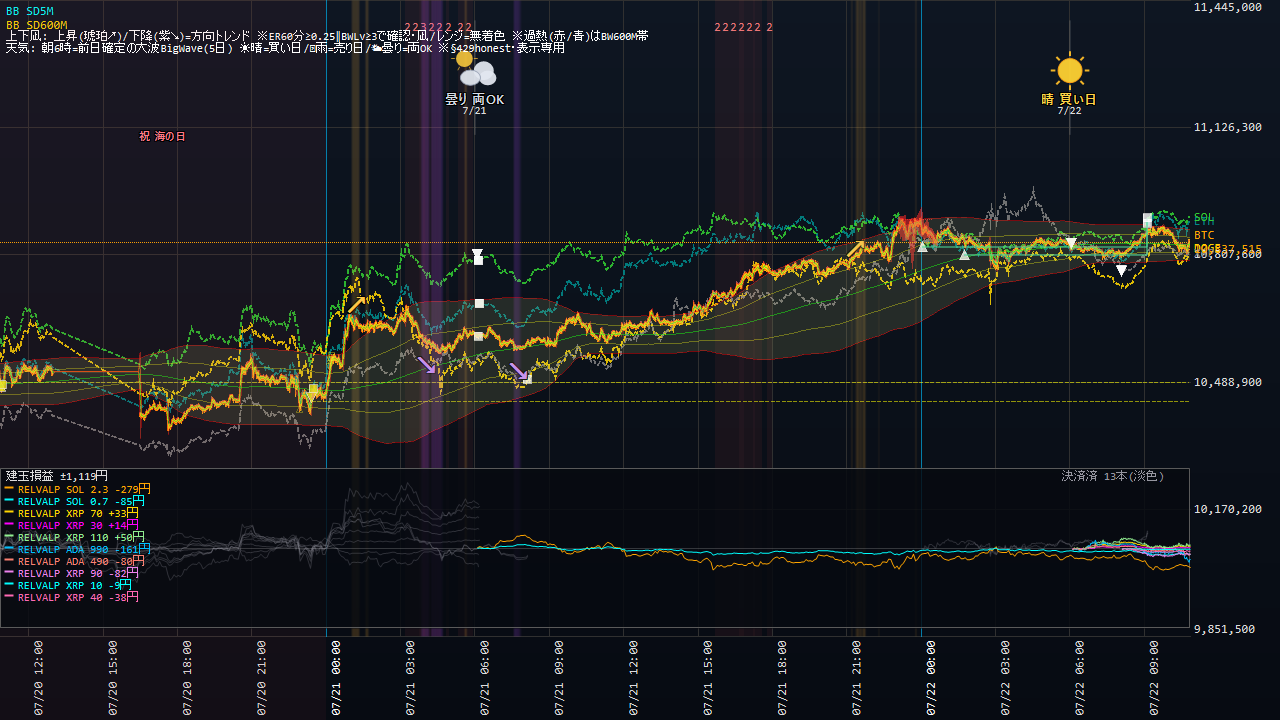
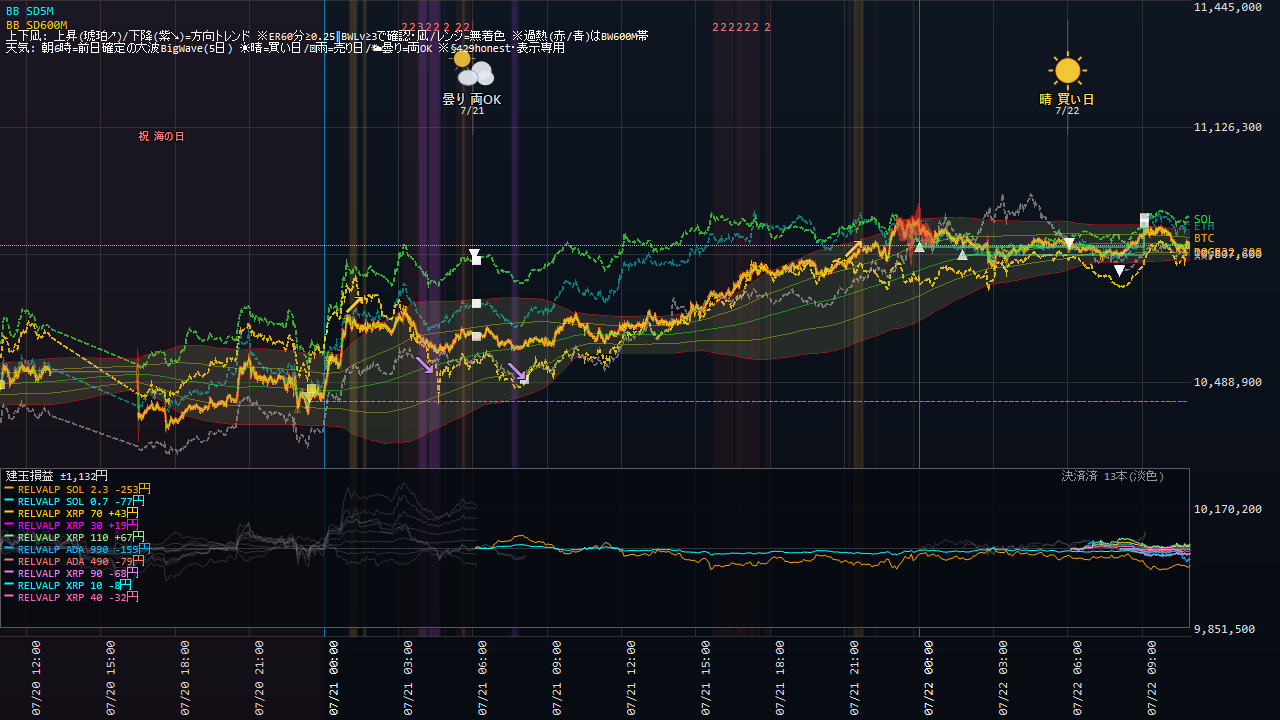
Coin100S 運用状況更新 07-22 10:59

diff --git a/coin100s-795hc4jfv8/index.html b/coin100s-795hc4jfv8/index.html
@@ -14,16 +14,16 @@ a{color:#60a5fa;text-decoration:none} a:hover{text-decoration:underline}
 .meta{color:#94a3b8;font-size:13px}</style>
 <script>setTimeout(function(){location.replace(location.pathname+"?t="+Date.now());},300000);</script></head><body>
 <h1>Coin100S ダッシュボード</h1>
-<p class="meta">スナップショット: 2026-07-22 10:53:03(自動リロード・最新化)</p>
+<p class="meta">スナップショット: 2026-07-22 10:59:02(自動リロード・最新化)</p>
 <div class="cards">
 <div class="card">建玉数<div class="v">10</div></div>
 <div class="card">本日損益<div class="v pos">+463円</div></div>
-<div class="card">評価損益<div class="v neg">-582円</div></div>
+<div class="card">評価損益<div class="v neg">-544円</div></div>
 </div>
 <h2>現在の建玉</h2>
-<table><tr><th>銘柄</th><th>側</th><th>数量</th><th>建値</th><th>含損益</th><th>レッグ</th></tr><tr><td>ADA_JPY</td><td>SELL</td><td>490</td><td>@28</td><td>-85円</td><td>RELVALP_SL700</td></tr><tr><td>ADA_JPY</td><td>SELL</td><td>990</td><td>@28</td><td>-171円</td><td>RELVALP_SELL</td></tr><tr><td>SOL_JPY</td><td>SELL</td><td>0.7</td><td>@12,663</td><td>-74円</td><td>RELVALP_SL700</td></tr><tr><td>SOL_JPY</td><td>SELL</td><td>2.3</td><td>@12,663</td><td>-242円</td><td>RELVALP_SELL</td></tr><tr><td>XRP_JPY</td><td>SELL</td><td>40</td><td>@186</td><td>-35円</td><td>RELVALP_SL700</td></tr><tr><td>XRP_JPY</td><td>SELL</td><td>10</td><td>@186</td><td>-9円</td><td>RELVALP_SELL</td></tr><tr><td>XRP_JPY</td><td>SELL</td><td>90</td><td>@186</td><td>-76円</td><td>RELVALP_SELL</td></tr><tr><td>XRP_JPY</td><td>SELL</td><td>110</td><td>@187</td><td>+57円</td><td>RELVALP_SELL</td></tr><tr><td>XRP_JPY</td><td>SELL</td><td>30</td><td>@187</td><td>+16円</td><td>RELVALP_SELL</td></tr><tr><td>XRP_JPY</td><td>SELL</td><td>70</td><td>@187</td><td>+37円</td><td>RELVALP_SL700</td></tr></table>
+<table><tr><th>銘柄</th><th>側</th><th>数量</th><th>建値</th><th>含損益</th><th>レッグ</th></tr><tr><td>ADA_JPY</td><td>SELL</td><td>490</td><td>@28</td><td>-80円</td><td>RELVALP_SL700</td></tr><tr><td>ADA_JPY</td><td>SELL</td><td>990</td><td>@28</td><td>-161円</td><td>RELVALP_SELL</td></tr><tr><td>SOL_JPY</td><td>SELL</td><td>0.7</td><td>@12,663</td><td>-74円</td><td>RELVALP_SL700</td></tr><tr><td>SOL_JPY</td><td>SELL</td><td>2.3</td><td>@12,663</td><td>-242円</td><td>RELVALP_SELL</td></tr><tr><td>XRP_JPY</td><td>SELL</td><td>40</td><td>@186</td><td>-33円</td><td>RELVALP_SL700</td></tr><tr><td>XRP_JPY</td><td>SELL</td><td>10</td><td>@186</td><td>-9円</td><td>RELVALP_SELL</td></tr><tr><td>XRP_JPY</td><td>SELL</td><td>90</td><td>@186</td><td>-70円</td><td>RELVALP_SELL</td></tr><tr><td>XRP_JPY</td><td>SELL</td><td>110</td><td>@187</td><td>+65円</td><td>RELVALP_SELL</td></tr><tr><td>XRP_JPY</td><td>SELL</td><td>30</td><td>@187</td><td>+18円</td><td>RELVALP_SELL</td></tr><tr><td>XRP_JPY</td><td>SELL</td><td>70</td><td>@187</td><td>+42円</td><td>RELVALP_SL700</td></tr></table>
 <p><a href="status.html"><b>▶ 運用状況の詳細(チャート・本日の取引・レジーム)</b></a></p>
 <h2>日報一覧</h2>
 <table><tr><th>取引日</th><th>実現損益</th><th>総括</th></tr><tr><td><a href='reports/20260721_Coin100S日報.html'>2026-07-21</a></td><td class="pos">+0円</td><td class='meta'>実取引: 新規4件/決済13件、実現損益 +0円。⚠警告/エラー 13件（要確認）。</td></tr><tr><td><a href='reports/20260720_Coin100S日報.html'>2026-07-20</a></td><td class="pos">+0円</td><td class='meta'>実取引: 新規8件/決済21件、実現損益 +0円。シグナル却下8件（最多: BW10M3_5M／トレンド方向ゲート(N分傾き上と不一致=逆張り方向のfade禁止)）。⚠警告/エラー 13件（要確認）。</td></tr><tr><td><a href='reports/20260719_Coin100S日報.html'>2026-07-19</a></td><td class="pos">+0円</td><td class='meta'>実取引: 新規10件/決済7件、実現損益 +0円。⚠警告/エラー 3件（要確認）。</td></tr><tr><td><a href='reports/20260718_Coin100S日報.html'>2026-07-18</a></td><td class="pos">+0円</td><td class='meta'>実取引: 新規9件/決済8件、実現損益 +0円。警告/孤児/エラーなし＝健全。</td></tr><tr><td><a href='reports/20260717_Coin100S日報.html'>2026-07-17</a></td><td class="pos">+0円</td><td class='meta'>実取引: 新規3件/決済2件、実現損益 +0円。シグナル却下1件（最多: BW10M3_5M／トレンド方向ゲート(N分傾き下と不一致=逆張り方向のfade禁止)）。⚠警告/エラー 2件（要確認）。</td></tr><tr><td><a href='reports/20260716_Coin100S日報.html'>2026-07-16</a></td><td class="pos">+0円</td><td class='meta'>実取引: 新規0件/決済5件、実現損益 +0円。⚠警告/エラー 7件（要確認）。</td></tr><tr><td><a href='reports/20260715_Coin100S日報.html'>2026-07-15</a></td><td class="pos">+0円</td><td class='meta'>実取引: 新規6件/決済5件、実現損益 +0円。シグナル却下6件（最多: BW10M3_5M／トレンド方向ゲート(N分傾き上と不一致=逆張り方向のfade禁止)）。⚠警告/エラー 7件（要確認）。</td></tr><tr><td><a href='reports/20260714_Coin100S日報.html'>2026-07-14</a></td><td class="pos">+0円</td><td class='meta'>実取引: 新規6件/決済18件、実現損益 +0円。シグナル却下5件（最多: BW10M3_5M／トレンド方向ゲート(N分傾き上と不一致=逆張り方向のfade禁止)）。⚠警告/エラー 9件（要確認）。</td></tr><tr><td><a href='reports/20260713_Coin100S日報.html'>2026-07-13</a></td><td class="pos">+0円</td><td class='meta'>実取引: 新規5件/決済8件、実現損益 +0円。シグナル却下1件（最多: BW10M3_5M／トレンド方向ゲート(N分傾き上と不一致=逆張り方向のfade禁止)）。警告/孤児/エラーなし＝健全。</td></tr><tr><td><a href='reports/20260712_Coin100S日報.html'>2026-07-12</a></td><td class="pos">+0円</td><td class='meta'>実取引: 新規14件/決済6件、実現損益 +0円。シグナル却下5件（最多: BW10M3_5M／トレンド方向ゲート(N分傾き下と不一致=逆張り方向のfade禁止)）。⚠警告/エラー 2件（要確認）。</td></tr><tr><td><a href='reports/20260711_Coin100S日報.html'>2026-07-11</a></td><td class="pos">+0円</td><td class='meta'>実取引: 新規7件/決済6件、実現損益 +0円。⚠警告/エラー 52件（要確認）。</td></tr><tr><td><a href='reports/20260710_Coin100S日報.html'>2026-07-10</a></td><td class="pos">+0円</td><td class='meta'>実取引: 新規7件/決済6件、実現損益 +0円。シグナル却下6件（最多: BW10M3_5M／トレンド方向ゲート(N分傾き上と不一致=逆張り方向のfade禁止)）。警告/孤児/エラーなし＝健全。</td></tr><tr><td><a href='reports/20260709_Coin100S日報.html'>2026-07-09</a></td><td class="pos">+0円</td><td class='meta'>実取引: 新規8件/決済3件、実現損益 +0円。シグナル却下5件（最多: SD120M_5M／トレンド方向ゲート(N分傾き上と不一致=逆張り方向のfade禁止)）。警告/孤児/エラーなし＝健全。</td></tr><tr><td><a href='reports/20260708_Coin100S日報.html'>2026-07-08</a></td><td class="pos">+0円</td><td class='meta'>実取引: 新規2件/決済4件、実現損益 +0円。シグナル却下4件（最多: SD120M_5M／トレンド方向ゲート(N分傾き下と不一致=逆張り方向のfade禁止)）。警告/孤児/エラーなし＝健全。</td></tr><tr><td><a href='reports/20260707_Coin100S日報.html'>2026-07-07</a></td><td class="pos">+0円</td><td class='meta'>実取引: 新規8件/決済6件、実現損益 +0円。シグナル却下4件（最多: SD120M_5M／トレンド方向ゲート(N分傾き上と不一致=逆張り方向のfade禁止)）。⚠警告/エラー 258件（要確認）。</td></tr><tr><td><a href='reports/20260706_Coin100S日報.html'>2026-07-06</a></td><td class="pos">+0円</td><td class='meta'>実取引: 新規9件/決済6件、実現損益 +0円。シグナル却下9件（最多: SD120M_5M／トレンド方向ゲート(N分傾き上と不一致=逆張り方向のfade禁止)）。⚠警告/エラー 150件（要確認）。</td></tr><tr><td><a href='reports/20260705_Coin100S日報.html'>2026-07-05</a></td><td class="pos">+0円</td><td class='meta'>実取引: 新規8件/決済3件、実現損益 +0円。⚠警告/エラー 2件（要確認）。</td></tr><tr><td><a href='reports/20260704_Coin100S日報.html'>2026-07-04</a></td><td class="pos">+0円</td><td class='meta'>実取引: 新規1件/決済2件、実現損益 +0円。⚠警告/エラー 2件（要確認）。</td></tr><tr><td><a href='reports/20260703_Coin100S日報.html'>2026-07-03</a></td><td class="pos">+0円</td><td class='meta'>実取引: 新規5件/決済4件、実現損益 +0円。⚠警告/エラー 15件（要確認）。</td></tr><tr><td><a href='reports/20260702_Coin100S日報.html'>2026-07-02</a></td><td class="pos">+0円</td><td class='meta'>実取引: 新規7件/決済5件、実現損益 +0円。シグナル却下17件（最多: SD120M_5M／トレンド方向ゲート(N分傾き上と不一致=逆張り方向のfade禁止)）。⚠警告/エラー 26件（要確認）。</td></tr><tr><td><a href='reports/20260701_Coin100S日報.html'>2026-07-01</a></td><td class="pos">+0円</td><td class='meta'>実取引: 新規14件/決済8件、実現損益 +0円。シグナル却下14件（最多: SD120M_5M／ボラ軸ゲート(SDN%&amp;gt;N%=高ボラ/荒れレンジ)）。⚠警告/エラー 2件（要確認）。</td></tr><tr><td><a href='reports/20260630_Coin100S日報.html'>2026-06-30</a></td><td class="pos">+0円</td><td class='meta'>実取引: 新規0件/決済1件、実現損益 +0円。シグナル却下29件（最多: 微5M／当日枠N）。警告/孤児/エラーなし＝健全。</td></tr></table>
-<hr><p class="meta">更新: 2026-07-22 10:53:11 / 自動生成: tools/web_publish.py(§580)</p>
+<hr><p class="meta">更新: 2026-07-22 10:59:07 / 自動生成: tools/web_publish.py(§580)</p>
 </body></html>

diff --git a/coin100s-795hc4jfv8/status.html b/coin100s-795hc4jfv8/status.html
@@ -14,22 +14,22 @@ a{color:#60a5fa;text-decoration:none} a:hover{text-decoration:underline}
 .meta{color:#94a3b8;font-size:13px}</style>
 <script>setTimeout(function(){location.replace(location.pathname+"?t="+Date.now());},300000);</script></head><body>
 <h1>Coin100S 運用状況</h1>
-<p class="meta">スナップショット: 2026-07-22 10:52:33 / ページ生成: 2026-07-22 10:53:11(自動リロード・最新化) / <a href="index.html">目次へ</a></p>
+<p class="meta">スナップショット: 2026-07-22 10:58:31 / ページ生成: 2026-07-22 10:59:07(自動リロード・最新化) / <a href="index.html">目次へ</a></p>
 <div class="cards">
 <div class="card">建玉数<div class="v">10</div></div>
 <div class="card">本日損益<div class="v pos">+463円</div></div>
-<div class="card">評価損益<div class="v neg">-582円</div></div>
+<div class="card">評価損益<div class="v neg">-544円</div></div>
 </div>
 <h2>資産推移(直近30日)</h2>
-<img src="status_equity.png?t=1053" alt="equity">
+<img src="status_equity.png?t=1059" alt="equity">
 <h2>取引チャート(直近24h)</h2>
-<img src="status_chart.png?t=1053" alt="chart">
+<img src="status_chart.png?t=1059" alt="chart">
 <h2>建玉一覧</h2>
-<table><tr><th>銘柄</th><th>側</th><th>数量</th><th>建値</th><th>含損益</th><th>レッグ</th></tr><tr><td>ADA_JPY</td><td>SELL</td><td>490</td><td>@28</td><td>-85円</td><td>RELVALP_SL700</td></tr><tr><td>ADA_JPY</td><td>SELL</td><td>990</td><td>@28</td><td>-171円</td><td>RELVALP_SELL</td></tr><tr><td>SOL_JPY</td><td>SELL</td><td>0.7</td><td>@12,663</td><td>-74円</td><td>RELVALP_SL700</td></tr><tr><td>SOL_JPY</td><td>SELL</td><td>2.3</td><td>@12,663</td><td>-242円</td><td>RELVALP_SELL</td></tr><tr><td>XRP_JPY</td><td>SELL</td><td>40</td><td>@186</td><td>-35円</td><td>RELVALP_SL700</td></tr><tr><td>XRP_JPY</td><td>SELL</td><td>10</td><td>@186</td><td>-9円</td><td>RELVALP_SELL</td></tr><tr><td>XRP_JPY</td><td>SELL</td><td>90</td><td>@186</td><td>-76円</td><td>RELVALP_SELL</td></tr><tr><td>XRP_JPY</td><td>SELL</td><td>110</td><td>@187</td><td>+57円</td><td>RELVALP_SELL</td></tr><tr><td>XRP_JPY</td><td>SELL</td><td>30</td><td>@187</td><td>+16円</td><td>RELVALP_SELL</td></tr><tr><td>XRP_JPY</td><td>SELL</td><td>70</td><td>@187</td><td>+37円</td><td>RELVALP_SL700</td></tr></table>
+<table><tr><th>銘柄</th><th>側</th><th>数量</th><th>建値</th><th>含損益</th><th>レッグ</th></tr><tr><td>ADA_JPY</td><td>SELL</td><td>490</td><td>@28</td><td>-80円</td><td>RELVALP_SL700</td></tr><tr><td>ADA_JPY</td><td>SELL</td><td>990</td><td>@28</td><td>-161円</td><td>RELVALP_SELL</td></tr><tr><td>SOL_JPY</td><td>SELL</td><td>0.7</td><td>@12,663</td><td>-74円</td><td>RELVALP_SL700</td></tr><tr><td>SOL_JPY</td><td>SELL</td><td>2.3</td><td>@12,663</td><td>-242円</td><td>RELVALP_SELL</td></tr><tr><td>XRP_JPY</td><td>SELL</td><td>40</td><td>@186</td><td>-33円</td><td>RELVALP_SL700</td></tr><tr><td>XRP_JPY</td><td>SELL</td><td>10</td><td>@186</td><td>-9円</td><td>RELVALP_SELL</td></tr><tr><td>XRP_JPY</td><td>SELL</td><td>90</td><td>@186</td><td>-70円</td><td>RELVALP_SELL</td></tr><tr><td>XRP_JPY</td><td>SELL</td><td>110</td><td>@187</td><td>+65円</td><td>RELVALP_SELL</td></tr><tr><td>XRP_JPY</td><td>SELL</td><td>30</td><td>@187</td><td>+18円</td><td>RELVALP_SELL</td></tr><tr><td>XRP_JPY</td><td>SELL</td><td>70</td><td>@187</td><td>+42円</td><td>RELVALP_SL700</td></tr></table>
 <h2>実現決済履歴(直近15件・OrderId単位)</h2>
 <table><tr><th>決済時刻</th><th>レッグ</th><th>銘柄</th><th>実現損益</th></tr><tr><td>07-22 09:08</td><td>SIGFADE_SOL</td><td>SOL</td><td class="pos">+220円</td></tr><tr><td>07-22 09:08</td><td>SIGFADE_ETH</td><td>ETH</td><td class="pos">+243円</td></tr><tr><td>07-21 08:07</td><td>TENKI5D_REV_DOGE</td><td>DOGE</td><td class="neg">-210円</td></tr><tr><td>07-21 06:11</td><td>TENKI5D_REV_ETH</td><td>ETH</td><td class="pos">+622円</td></tr><tr><td>07-21 06:11</td><td>TENKI5D_REV_ETH</td><td>ETH</td><td class="pos">+124円</td></tr><tr><td>07-21 06:09</td><td>TENKI5D_REV_SOL</td><td>SOL</td><td class="pos">+287円</td></tr><tr><td>07-21 06:09</td><td>TENKI5D_REV_SOL</td><td>SOL</td><td class="pos">+454円</td></tr><tr><td>07-21 06:09</td><td>TENKI5D_REV_BTC</td><td>BTC</td><td class="pos">+649円</td></tr><tr><td>07-21 06:08</td><td>RELVALP_SELL</td><td>LTC</td><td class="neg">-267円</td></tr><tr><td>07-21 06:08</td><td>RELVALP_SL700</td><td>LTC</td><td class="neg">-90円</td></tr><tr><td>07-20 23:29</td><td>BW10M3_5M</td><td>BTC</td><td class="neg">-45円</td></tr><tr><td>07-20 10:58</td><td>BW10M3_5M</td><td>BTC</td><td class="pos">+7円</td></tr><tr><td>07-20 09:56</td><td>BW10M3_5M</td><td>BTC</td><td class="neg">-6円</td></tr><tr><td>07-20 09:11</td><td>SIGFADE_ETH</td><td>ETH</td><td class="pos">+370円</td></tr><tr><td>07-20 08:45</td><td>SIGFADE_SOL</td><td>SOL</td><td class="pos">+380円</td></tr></table>
 <!-- §799c 「本取引日の実取引(6:00起点)」テーブルは公開ページから削除(ユーザー指示2026-07-15・数量/指値まで晒す情報漏れ)。建玉/実現損益は許可・実発注の生取引明細は非公開 -->
 <h2>現在レジーム(3軸・§570c)</h2>
-<ul><li>アルト対BTC 5日: <b>-85bps</b>(アルト劣後=RELVAL順風)</li><li>BTC ER240m: <b>0.017</b>(閾値0.25→レンジ(fade順風/BWTRD逆風))</li><li>BTC実現ボラ240m: <b>3.77</b> bps/分</li></ul>
+<ul><li>アルト対BTC 5日: <b>-85bps</b>(アルト劣後=RELVAL順風)</li><li>BTC ER240m: <b>0.002</b>(閾値0.25→レンジ(fade順風/BWTRD逆風))</li><li>BTC実現ボラ240m: <b>3.80</b> bps/分</li></ul>
 <hr><p class="meta">自動生成: tools/web_publish.py(§580・読み取り専用)。売買判断はアプリ本体。</p>
 </body></html>
